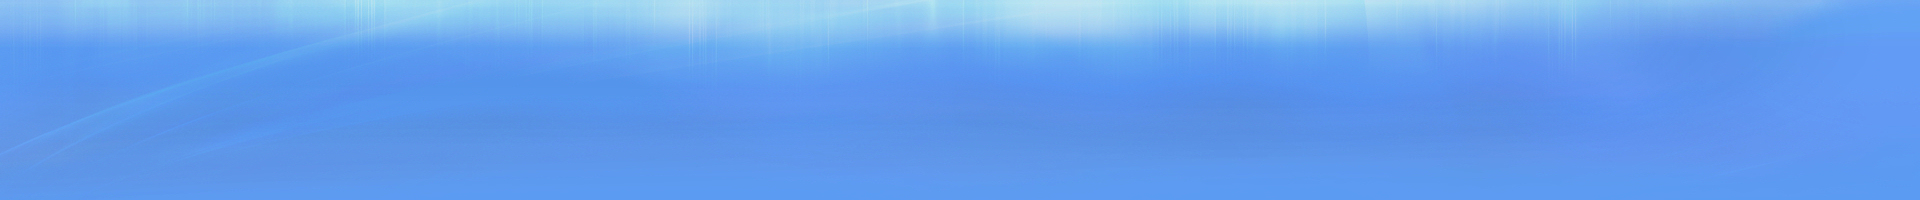
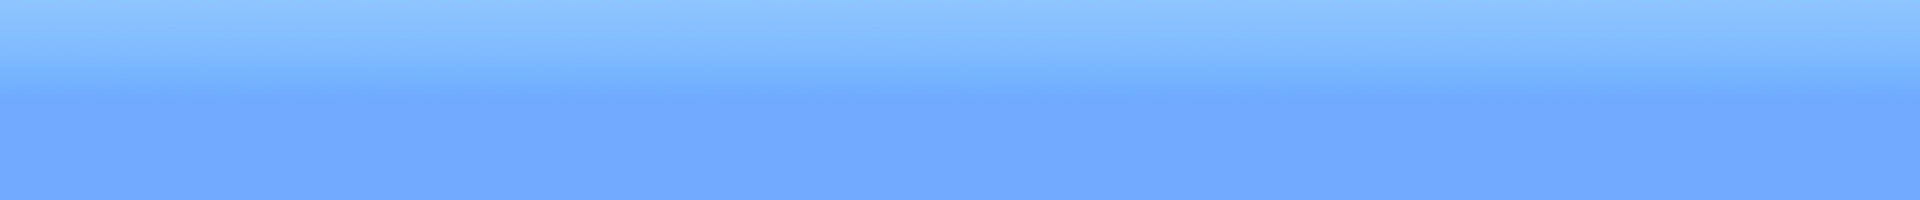
Updates and bug fixes

diff --git a/hypercms/theme/standard/css/navigator.css b/hypercms/theme/standard/css/navigator.css
@@ -26,7 +26,7 @@
   padding: 0;
   width: 100%;
   height: 100%;
-  background-color: #E0E6ED;
+  background-color: #DFEBFE;
 }
 
 .hcmsWorkplaceObjectlistLinks
@@ -405,20 +405,20 @@ html, body, table, td, span
 .hcmsTableHeader
 {
   background-color: #61A3F9;
-	border-left: 1px solid #99CCFF;
-	border-right: 1px solid #0000CC;
-	border-top: 1px solid #99CCFF;
-	border-bottom: 1px solid #0000CC;
+  border-left: 1px solid #99CCFF;
+  border-right: 1px solid #61A3F9;
+  border-top: 1px solid #579DF7;
+  border-bottom: 1px solid #61A3F9;
   cursor: pointer;
 }
 
 .hcmsTableHeader:hover
 {
   background-color: #7BB5FF;
-	border-left: 1px solid #99CCFF;
-	border-right: 1px solid #0000CC;
-	border-top: 1px solid #99CCFF;
-	border-bottom: 1px solid #0000CC;
+  border-left: 1px solid #99CCFF;
+  border-right: 1px solid #7BB5FF;
+  border-top: 1px solid #99CCFF;
+  border-bottom: 1px solid #7BB5FF;
   cursor: pointer;
 }
 

diff --git a/hypercms/theme/standard/css/main.css b/hypercms/theme/standard/css/main.css
@@ -105,14 +105,14 @@
 {
   margin: 0;
   padding: 0;
-  background-color: #5494eb;
+  background-color: #71ABFF;
 }
 
 .hcmsWorkplaceControlWallpaper
 {
   margin: 0;
   padding: 0;
-  background-color: #5494eb;
+  background-color: #71ABFF;
   background-image: url('../img/backgrd_control.jpg');
   background-repeat: no-repeat;
 }

diff --git a/hypercms/frameset_main_linking.php b/hypercms/frameset_main_linking.php
@@ -32,8 +32,12 @@ checkusersession ($user, false);
 <meta http-equiv="Content-Type" content="text/html; charset=<?php echo getcodepage ($lang); ?>">
 <meta name="viewport" content="width=1024; initial-scale=1.0; user-scalable=1;">
 <link rel="stylesheet" href="<?php echo getthemelocation(); ?>css/main.css">
+<link rel="stylesheet" href="javascript/jquery-ui/jquery-ui-1.10.2.css">
 <script src="javascript/click.js" type="text/javascript"></script>
 <script src="javascript/main.js" type="text/javascript"></script>
+<!-- Jquery and Jquery UI Autocomplete -->
+<script src="javascript/jquery/jquery-1.10.2.min.js" type="text/javascript"></script>
+<script src="javascript/jquery-ui/jquery-ui-1.10.2.min.js" type="text/javascript"></script>
 <?php
 $servertime = new servertime;
 $servertime->InstallClockHead();
@@ -45,29 +49,41 @@ function openInfo()
   hcms_openWindow('top_info.php', 'help', 'resizable=no,scrollbars=no', '640', '400');
 }
 
-function adjust_height (topFrameHeight)
+$(document).ready(function()
 {
-  var height = hcms_getDocHeight();  
+  <?php
+  $keywords = array();
   
-  if (!topFrameHeight) topFrameHeight = 32;  
-  setheight = height - topFrameHeight;
-  document.getElementById('workplFrame').style.height = setheight + "px";
-  document.getElementById('chatLayer').style.height = setheight + "px";
-  document.getElementById('chatFrame').style.height = setheight + "px";
-}
+  if (is_file ($mgmt_config['abs_path_data']."log/search.log"))
+  {
+    // load search log
+    $data = file ($mgmt_config['abs_path_data']."log/search.log");
+  
+    if (is_array ($data))
+    {
+      foreach ($data as $record)
+      {
+        list ($date, $user, $keyword_add) = explode ("|", $record);
+  
+        $keywords[] = "'".str_replace ("'", "\\'", trim ($keyword_add))."'";
+      }
+      
+      // only unique expressions
+      $keywords = array_unique ($keywords);
+    }
+  }
+  ?>
+  var available_expressions = [<?php echo implode (",\n", $keywords); ?>];
 
-function adjust_width ()
-{
-  var width = hcms_getDocWidth();  
-  
-  setwidth = width;
-  document.getElementById('workplFrame').style.width = setwidth + "px";
-}
+  $("#search_expression").autocomplete({
+    source: available_expressions
+  });
+});   
 -->
 </script>
 </head>
 
-<body style="width:100%; height:100%; margin:0; padding:0;" onload="adjust_height(); adjust_width();" onresize="adjust_height(); adjust_width();">
+<body style="width:100%; height:100%; margin:0; padding:0;">
 
 <!-- top bar -->
 <div class="hcmsWorkplaceTop" style="position:fixed; left:0px; top:0px; width:100%; height:32px;">
@@ -86,12 +102,12 @@ function adjust_width ()
       </td>
       <?php } ?>
       <?php if (!empty ($mgmt_config['db_connect_rdbms'])) { ?>
-      <td width="240" align="right" valign="middle" nowrap="nowrap">
+      <td id="selectbox" width="240" align="right" valign="middle" nowrap="nowrap">
         <form name="searchform_general" method="post" action="frameset_objectlist.php" target="workplFrame" style="margin:0; padding:0px; border:0;">
           <input type="hidden" name="action" value="base_search" />
           <input type="hidden" name="search_dir" value="" />
-          <input type="hidden" name="maxhits" value="1000" />
-          <input type="text" name="search_expression" style="width:200px;" maxlength="60" value="<?php echo getescapedtext ($hcms_lang['search-expression'][$lang]); ?>" onfocus="if (this.value == '<?php echo getescapedtext ($hcms_lang['search-expression'][$lang]); ?>') this.value=''" onblur="if(this.value == '') this.value='<?php echo getescapedtext ($hcms_lang['search-expression'][$lang]); ?>'" />
+          <input type="hidden" name="maxhits" value="500" />
+          <input type="text" name="search_expression" id="search_expression" style="width:200px;" maxlength="60" value="<?php echo getescapedtext ($hcms_lang['search-expression'][$lang]); ?>" onfocus="if (this.value == '<?php echo getescapedtext ($hcms_lang['search-expression'][$lang]); ?>') this.value=''" onblur="if(this.value == '') this.value='<?php echo getescapedtext ($hcms_lang['search-expression'][$lang]); ?>'" />
           <img name="SearchButton" src="<?php echo getthemelocation(); ?>img/button_OK.gif" onClick="if (document.forms['searchform_general'].elements['search_expression'].value=='<?php echo getescapedtext ($hcms_lang['search-expression'][$lang]); ?>') document.forms['searchform_general'].elements['search_expression'].value=''; document.forms['searchform_general'].submit();" onMouseOut="hcms_swapImgRestore()" onMouseOver="hcms_swapImage('SearchButton','','<?php echo getthemelocation(); ?>img/button_OK_over.gif',1)" style="border:0; cursor:pointer;" align="absmiddle" title="OK" alt="OK" />
         </form>
       </td>
@@ -110,9 +126,11 @@ $servertime->InstallClockBody();
 </div>
 
 <!-- chat sidebar -->
+<?php if (isset ($mgmt_config['chat']) && $mgmt_config['chat'] == true) { ?>
 <div id="chatLayer" class="hcmsChatBar" style="position:fixed; top:32px; right:0; bottom:0; width:300px; z-index:100; display:none;">
   <iframe id="chatFrame" scrolling="auto" src="chat.php" border="0" frameBorder="0" style="width:100%; height:100%; border:0; margin:0; padding:0;"></iframe>
 </div>
+<?php } ?>
 
 </body>
 </html>

diff --git a/hypercms/user_sendlink.php b/hypercms/user_sendlink.php
@@ -209,7 +209,9 @@ if ($intention == "sendmail" && checktoken ($token, $user))
       {
         $login = "User".date ("YmdHis", time());
         $user_login[] = $login;
-        $password = $confirm_password = substr (session_id(), 0, 8);
+        
+        // generate password from upper case letter and session ID
+        $password = $confirm_password = "P".substr (session_id(), 0, 7);
            
         $result = createuser ($site, $login, $password, $confirm_password, $user);
         
@@ -907,7 +909,7 @@ if ($intention == "sendmail" && checktoken ($token, $user))
   }
   else
   {
-    $general_error = $hcms_lang['object-is-not-defined'][$lang];
+    $general_error[] = $hcms_lang['object-is-not-defined'][$lang];
   }
   
   // ------------ save recipients and create new task for user on success --------------
@@ -1397,19 +1399,19 @@ $token_new = createtoken ($user);
         $show = "<div style=\"width:100%; max-height:190px; z-index:10; overflow:auto;\">\n";
               
         // success message
-        if (!empty ($mail_success))
+        if (!empty ($mail_success) && is_array ($mail_success))
         {
           $show .= "<strong>".getescapedtext ($hcms_lang['e-mail-was-sent-successfully-to-'][$lang])."</strong><br />\n".implode (", ", html_encode ($mail_success))."<br />\n";
         }
               
         // mail error message
-        if (!empty ($mail_error))
+        if (!empty ($mail_error) && is_array ($mail_error))
         {
           $show .= "<strong>".getescapedtext ($hcms_lang['there-was-an-error-sending-the-e-mail-to-'][$lang])."</strong><br />\n".implode ("<br />", html_encode ($mail_error))."<br />\n";
         }
               
         // general error message
-        if (!empty ($general_error))
+        if (!empty ($general_error) && is_array ($general_error))
         {
           $show .= implode ("<br />", $general_error)."<br />\n";
         }

diff --git a/hypercms/version.inc.php b/hypercms/version.inc.php
@@ -995,9 +995,17 @@ version 5.7.15
 release 10/2015
 - implementation of search expressions recommender based on the search history of all users
 - bug fix: deleting folders caused workplace control to display wrong location (folder has been added to location for each step of popup_status)
-- bug fix: deleting folders using the context menu could cause delting other folders since the values of the context menu has not been locked for writing
+- bug fix: deleting folders using the context menu could cause deleting other folders since the values of the context menu has not been locked for writing
 - implementation of new JS functions hcms_lockContext and hcms_isLockedContext
 - improvements in JS library for context menu
+- improvements in frameset_main_linking to support search expression recommender, removed dynamical framesets, implementation of sidebar configuration check
+- implementation of max keyword length of 255 digits to avoid long strings that have beem imported as keywords (e.g. Adobe Indesign documents with unreadable keyword strings)
+- bug fix: location has been undefined in popup_status if no folder has been provided as input request
+- changed max search hist from 1000 to 500 in top bar search forms
+- bug fix: user_sendlink did not define upper case letter in password to fullfill strong password criteria
+- bug fix: user_sendlink did not set all general_error's as array element
+- implementation of a new standard design theme
+- bug fix: undefined variable $type and $thumb_pdf_exists in function showmedia in hyperCMS UI
 */
 
 // current version

diff --git a/hypercms/frameset_main.php b/hypercms/frameset_main.php
@@ -128,7 +128,7 @@ $(document).ready(function()
         <form name="searchform_general" method="post" action="frameset_objectlist.php" target="workplFrame" style="margin:0; padding:0; border:0;">
           <input type="hidden" name="action" value="base_search" />
           <input type="hidden" name="search_dir" value="" />
-          <input type="hidden" name="maxhits" value="1000" />
+          <input type="hidden" name="maxhits" value="500" />
           <input type="text" name="search_expression" id="search_expression" style="width:200px;" maxlength="60" value="<?php echo getescapedtext ($hcms_lang['search-expression'][$lang]); ?>" onfocus="if (this.value == '<?php echo getescapedtext ($hcms_lang['search-expression'][$lang]); ?>') this.value=''" onblur="if(this.value == '') this.value='<?php echo getescapedtext ($hcms_lang['search-expression'][$lang]); ?>'" />
           <img name="SearchButton" src="<?php echo getthemelocation(); ?>img/button_OK.gif" onClick="if (document.forms['searchform_general'].elements['search_expression'].value=='<?php echo getescapedtext ($hcms_lang['search-expression'][$lang]); ?>') document.forms['searchform_general'].elements['search_expression'].value=''; if (document.forms['searchform_general'].elements['search_expression'].value!='') document.forms['searchform_general'].submit();" onMouseOut="hcms_swapImgRestore()" onMouseOver="hcms_swapImage('SearchButton','','<?php echo getthemelocation(); ?>img/button_OK_over.gif',1)" style="border:0; cursor:pointer;" align="absmiddle" title="OK" alt="OK" />
         </form>

diff --git a/hypercms/function/hypercms_ui.inc.php b/hypercms/function/hypercms_ui.inc.php
@@ -769,12 +769,13 @@ function showmedia ($mediafile, $medianame, $viewtype, $id="", $width="", $heigh
               rename ($thumb_root.$file_info['filename'].".pdf", $thumb_root.$file_info['filename'].".thumb.pdf");
               $thumb_pdf_exists = true;
             }
+            else $thumb_pdf_exists = false;
             
             // thumb pdf exsists
             if ($thumb_pdf_exists != false)
             {
               // using pdfjs with thumbnail file via iframe
-              $doc_link = cleandomain ($mgmt_config['url_path_cms'])."explorer_wrapper.php?site=".$site."&name=".$medianame_thumb."&media=".$site."/".$mediafile_thumb."&token=".hcms_crypt ($site."/".$mediafile_thumb).$type."&ts=".time();
+              $doc_link = cleandomain ($mgmt_config['url_path_cms'])."explorer_wrapper.php?site=".$site."&name=".$medianame_thumb."&media=".$site."/".$mediafile_thumb."&token=".hcms_crypt ($site."/".$mediafile_thumb)."&ts=".time();
               $mediaview = "<iframe src=\"".$pdfjs_path.urlencode($doc_link)."\" ".$style." ".$id." style=\"border:none;\"></iframe><br />\n";
             }
             // thumb pdf does not exsist

diff --git a/hypercms/plugin/keywords/pages/page.php b/hypercms/plugin/keywords/pages/page.php
@@ -97,12 +97,12 @@ function splitkeywords ($string)
   {
     $string = str_replace ("\n", "", $string);
     $result_array = array();
-  	$array1 = explode (",", $string);
+    $array1 = explode (",", $string);
         
-  	foreach ($array1 as $entry1)
+    foreach ($array1 as $entry1)
     {
-      $result_array[] = trim ($entry1);
-  	}
+      if (strlen ($entry1) <= 255) $result_array[] = trim ($entry1);
+    }
     
     if (is_array ($result_array)) return $result_array;
     else return false;
